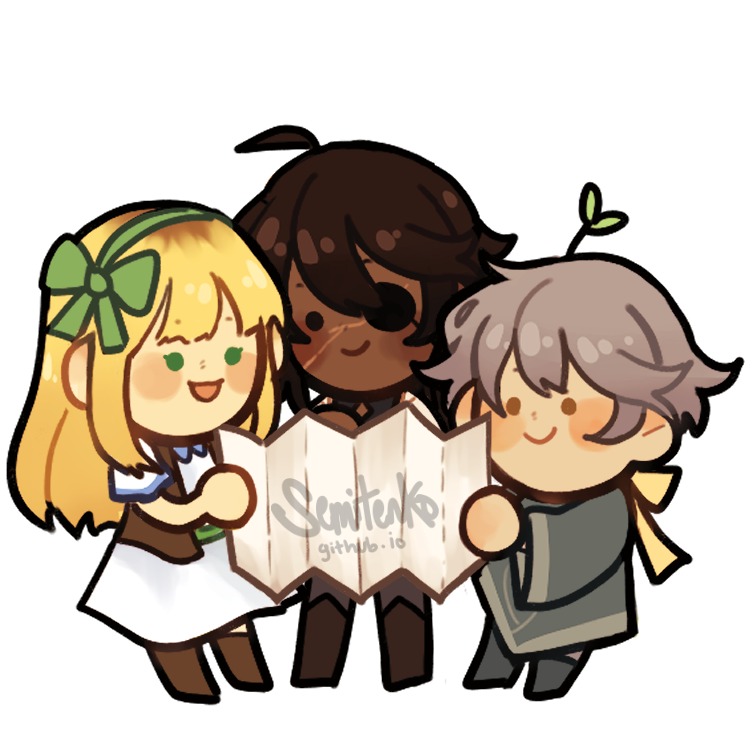
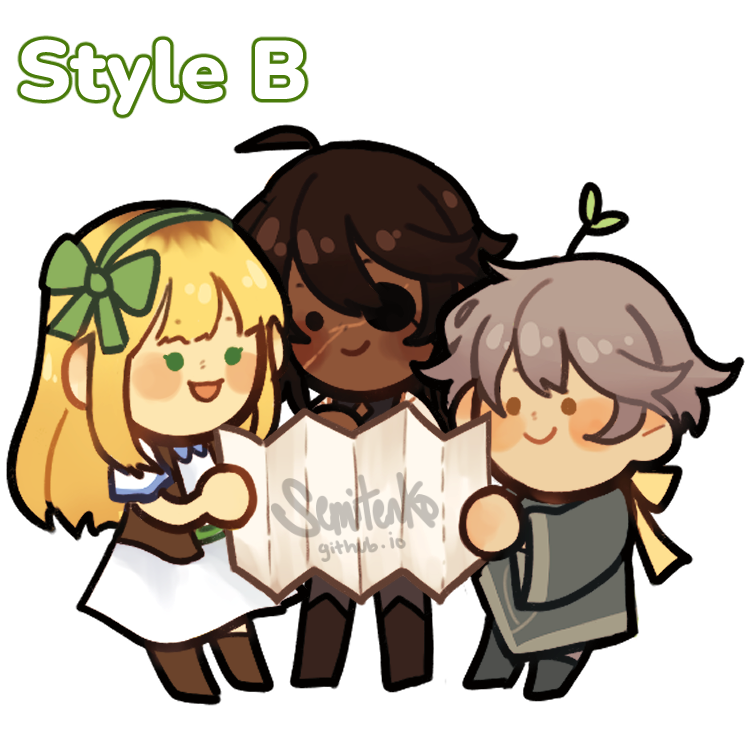
updated chibi examples

Changed region(s): [[0.0, 0.0307, 0.3067, 0.1533], [0.3373, 0.0307, 0.4293, 0.1533]]

diff --git a/commissions.html b/commissions.html
@@ -68,17 +68,17 @@
 <br />
 
 <h5>chibis <span class="price">$20</span></h5>
-<p>fully colored small little guy! +$20 per chibi</p>
+<p>fully colored small little guy! comes in two styles. +$20 per chibi</p>
 <button class="toggle" data-bs-toggle="collapse" href="#collapse-one" role="button" aria-expanded="false" aria-controls="collapse-one">
     view examples
 </button>
 <div class="collapse" id="collapse-one">
     <div class="examples row gy-3">
         <div class="art col-md-6 col-sm-12">
-            <img src="images/chibi 2.png" />
+            <img src="images/asdfasdfasdf.png" />
         </div>
         <div class="art col-md-6 col-sm-12">
-            <img src="images/chibi 1.png" />
+            <img src="images/chibi 2.png" />
         </div>
     </div>
 </div>
